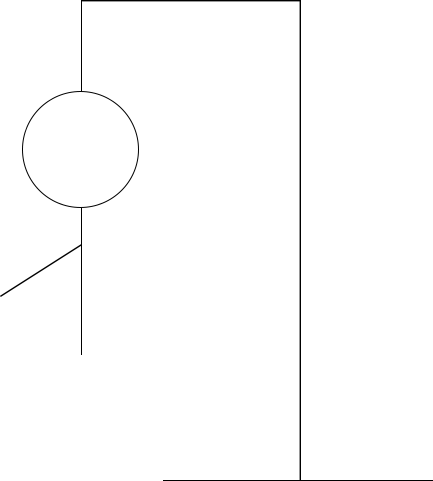
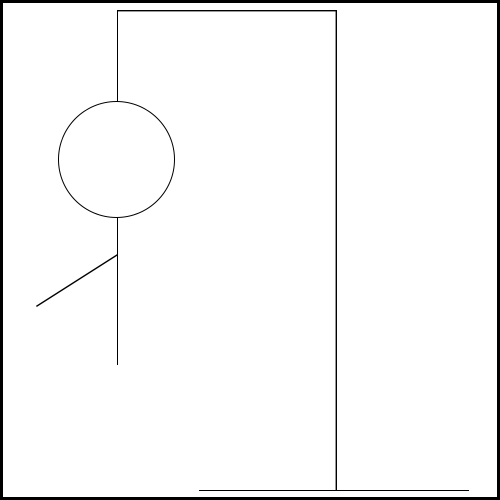
Added basic function

diff --git a/Game1/Game1.cs b/Game1/Game1.cs
@@ -12,6 +12,11 @@ namespace Game1
         private SpriteBatch _spriteBatch;
 
         List<Texture2D> hangman = new List<Texture2D>();
+        Rectangle hangmanRectangle = new Rectangle(new Point(74, 74), new Point(453));
+        int hangmanState;
+
+        KeyboardState keyState;
+        KeyboardState oldKeyState;
 
         public Game1()
         {
@@ -20,6 +25,8 @@ namespace Game1
             _graphics.PreferredBackBufferHeight = 800;
             Content.RootDirectory = "Content";
             IsMouseVisible = true;
+
+            hangmanState = 0;
         }
 
         protected override void Initialize()
@@ -34,6 +41,7 @@ namespace Game1
             _spriteBatch = new SpriteBatch(GraphicsDevice);
 
             // TODO: use this.Content to load your game content here
+            hangman.Add(this.Content.Load<Texture2D>("hangman/square"));
             hangman.Add(this.Content.Load<Texture2D>("hangman/hangman-1"));
             hangman.Add(this.Content.Load<Texture2D>("hangman/hangman-2"));
             hangman.Add(this.Content.Load<Texture2D>("hangman/hangman-3"));
@@ -47,29 +55,69 @@ namespace Game1
 
         protected override void Update(GameTime gameTime)
         {
-            if (GamePad.GetState(PlayerIndex.One).Buttons.Back == ButtonState.Pressed || Keyboard.GetState().IsKeyDown(Keys.Escape))
-                Exit();
-
             // TODO: Add your update logic here
 
+            keyState = Keyboard.GetState();
+
+            if(GetKeyDown(Keys.Space))
+            {
+                AdvanceHangman();
+            }
+
+            if (Keyboard.GetState().IsKeyDown(Keys.Escape))
+                Exit();
+
+            oldKeyState = keyState;
             base.Update(gameTime);
         }
 
         protected override void Draw(GameTime gameTime)
         {
-            GraphicsDevice.Clear(Color.Cyan);
+            GraphicsDevice.Clear(Color.White);
 
             // TODO: Add your drawing code here
             _spriteBatch.Begin();
 
-            foreach (Texture2D tex in hangman)
-            {
-                _spriteBatch.Draw(tex, position: Vector2.Zero, color: Color.White);
-            }
+            _spriteBatch.Draw(hangman[hangmanState], hangmanRectangle, Color.White);
+
+            //foreach (Texture2D tex in hangman)
+            //{
+            //    _spriteBatch.Draw(tex,hangmanRectangle,Color.White);
+            //}
 
             _spriteBatch.End();
 
             base.Draw(gameTime);
+        }
+
+        //returns true the first frame the key is pressed
+        bool GetKeyDown(Keys key)
+        {
+            if (oldKeyState.IsKeyUp(key) && keyState.IsKeyDown(key))
+            {
+                return true;
+            }
+            else
+                return false;
+        }
+
+        //returns true the first frame the key is released
+        bool GetKeyUp(Keys key)
+        {
+            if (oldKeyState.IsKeyDown(key) && keyState.IsKeyUp(key))
+            {
+                return true;
+            }
+            else
+                return false;
+        }
+
+        void AdvanceHangman()
+        {
+            if(hangmanState < 9)
+            {
+                hangmanState++;
+            }
         }
     }
 }
